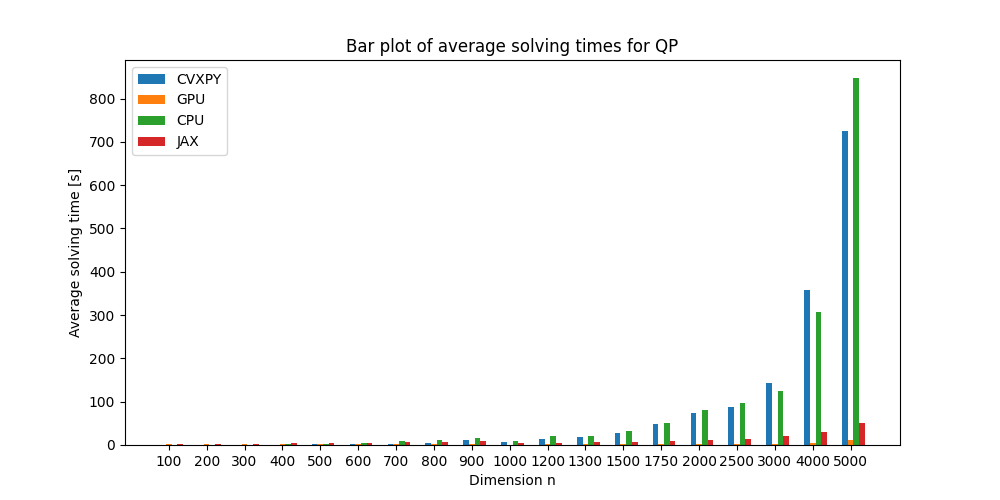
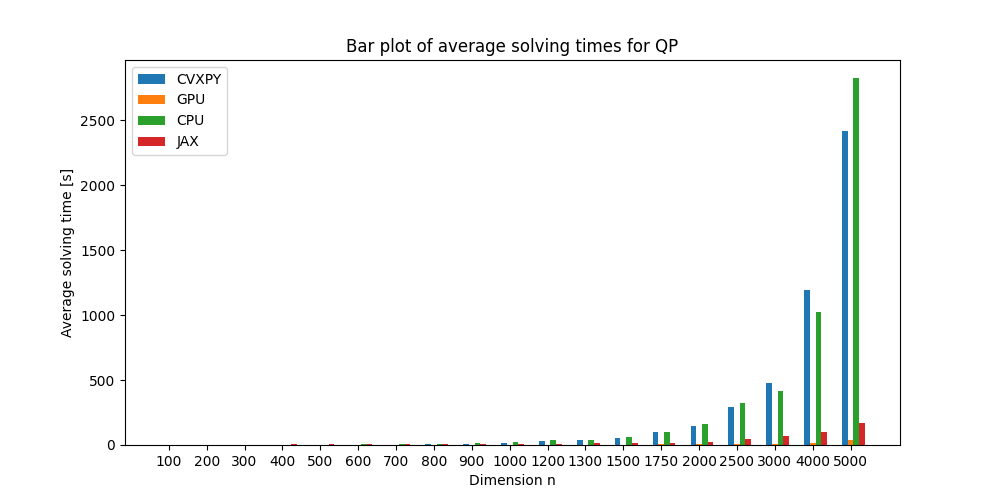
Updated graphs, fixed calculation of mean and std usin nan:s

diff --git a/parseAndPlot.py b/parseAndPlot.py
@@ -17,6 +17,7 @@ def parse_csv(filename, origin):
     # Read the data, skipping the first line
     data_times = pd.read_csv(filenameTimes, skiprows=1)
     data_values = pd.read_csv(filenameValues, skiprows= 0)
+
     # Fix name error
     data_values = data_values.rename(columns = {"socp_gpu_values" : "lasso_gpu_values", 
                                                 "socp_cpu_values" : "lasso_cpu_values"})
@@ -31,21 +32,28 @@ def parse_csv(filename, origin):
     n_values_matrix = np.reshape(n_values_repeated, (-1, N))
     n_values = n_values_matrix[:, 0]
 
-    cvxpy_times = np.reshape(data_times["cvxpy_times"].to_numpy(), (num_tests, N))
+    lasso_jax_times = np.reshape(data_times["lasso_jax_times"].to_numpy(), (num_tests, N))
     lasso_gpu_times = np.reshape(data_times["lasso_gpu_times"].to_numpy(), (num_tests, N))
     lasso_cpu_times = np.reshape(data_times["lasso_cpu_times"].to_numpy(), (num_tests, N))
 
     # Parse data, values
     num_problems = 30 # fixed from testing
     
-    cvxpy_values = np.reshape(data_values["cvxpy_values"].to_numpy(), 
+    lasso_jax_values = np.reshape(data_values["lasso_jax_values"].to_numpy(), 
                               (num_tests, N, num_problems))
     lasso_gpu_values = np.reshape(data_values["lasso_gpu_values"].to_numpy(),
                               (num_tests, N, num_problems))
     lasso_cpu_values = np.reshape(data_values["lasso_cpu_values"].to_numpy(),
                               (num_tests, N, num_problems))
 
-    return N, num_tests, n_values, cvxpy_times, cvxpy_values, lasso_gpu_times, \
+    lasso_jax_times[np.where(lasso_jax_times == 0)] = np.nan
+    lasso_jax_values[np.where(lasso_jax_values == 0)] = np.nan
+    lasso_gpu_times[np.where(lasso_gpu_times == 0)] = np.nan
+    lasso_gpu_values[np.where(lasso_gpu_values == 0)] = np.nan
+    lasso_cpu_times[np.where(lasso_cpu_times == 0)] = np.nan
+    lasso_cpu_values[np.where(lasso_cpu_values == 0)] = np.nan
+
+    return N, num_tests, n_values, lasso_jax_times, lasso_jax_values, lasso_gpu_times, \
             lasso_gpu_values, lasso_cpu_times, lasso_cpu_values
 
   else:  
@@ -75,6 +83,15 @@ def parse_csv(filename, origin):
       jax_times = np.reshape(data["jax_times"].to_numpy(), (num_tests, N))
       jax_values = np.reshape(data["jax_values"].to_numpy(), (num_tests, N))
 
+      cvxpy_times[np.where(cvxpy_times == 0)] = np.nan
+      cvxpy_values[np.where(cvxpy_values == 0)] = np.nan
+      ls_gpu_times[np.where(ls_gpu_times == 0)] = np.nan
+      ls_gpu_values[np.where(ls_gpu_values == 0)] = np.nan
+      ls_cpu_times[np.where(ls_cpu_times == 0)] = np.nan
+      ls_cpu_values[np.where(ls_cpu_values == 0)] = np.nan
+      jax_times[np.where(jax_times == 0)] = np.nan
+      jax_values[np.where(jax_values == 0)] = np.nan
+
       return N, num_tests, n_values, cvxpy_times, cvxpy_values, ls_gpu_times, \
             ls_gpu_values, ls_cpu_times, ls_cpu_values, jax_times, jax_values
 
@@ -89,6 +106,15 @@ def parse_csv(filename, origin):
       jax_times = np.reshape(data["jax_times"].to_numpy(), (num_tests, N))
       jax_values = np.reshape(data["jax_values"].to_numpy(), (num_tests, N))
 
+      cvxpy_times[np.where(cvxpy_times == 0)] = np.nan
+      cvxpy_values[np.where(cvxpy_values == 0)] = np.nan
+      qp_gpu_times[np.where(qp_gpu_times == 0)] = np.nan
+      qp_gpu_values[np.where(qp_gpu_values == 0)] = np.nan
+      qp_cpu_times[np.where(qp_cpu_times == 0)] = np.nan
+      qp_cpu_values[np.where(qp_cpu_values == 0)] = np.nan
+      jax_times[np.where(jax_times == 0)] = np.nan
+      jax_values[np.where(jax_values == 0)] = np.nan
+
       return N, num_tests, n_values, cvxpy_times, cvxpy_values, qp_gpu_times, \
             qp_gpu_values, qp_cpu_times, qp_cpu_values, jax_times, jax_values
       
@@ -100,6 +126,13 @@ def parse_csv(filename, origin):
       socp_gpu_values = np.reshape(data["socp_gpu_values"].to_numpy(), (num_tests, N))
       socp_cpu_times = np.reshape(data["socp_cpu_times"].to_numpy(), (num_tests, N))
       socp_cpu_values = np.reshape(data["socp_cpu_values"].to_numpy(), (num_tests, N))
+
+      cvxpy_times[np.where(cvxpy_times == 0)] = np.nan
+      cvxpy_values[np.where(cvxpy_values == 0)] = np.nan
+      socp_gpu_times[np.where(socp_gpu_times == 0)] = np.nan
+      socp_gpu_values[np.where(socp_gpu_values == 0)] = np.nan
+      socp_cpu_times[np.where(socp_cpu_times == 0)] = np.nan
+      socp_cpu_values[np.where(socp_cpu_values == 0)] = np.nan
 
       return N, num_tests, n_values, cvxpy_times, cvxpy_values, socp_gpu_times, \
             socp_gpu_values, socp_cpu_times, socp_cpu_values
@@ -130,16 +163,16 @@ def get_result(filename, origin):
     print(f"For JAX, the average relative error is {jax_av_err}")
 
     # Calculate time averages
-    cvxpy_time_average = cvxpy_times.sum(axis = 1) / N
-    gpu_time_average = gpu_times.sum(axis = 1) / N
-    cpu_time_average = cpu_times.sum(axis = 1) / N
-    jax_time_average = jax_times.sum(axis = 1) / N
+    cvxpy_time_average = np.nanmean(cvxpy_times, axis = 1)
+    gpu_time_average = np.nanmean(gpu_times, axis = 1)
+    cpu_time_average = np.nanmean(cpu_times, axis = 1)
+    jax_time_average = np.nanmean(jax_times, axis = 1)
 
     # Calculate standard deviations
-    cvxpy_std = np.std(cvxpy_times, axis = 1)
-    gpu_std = np.std(gpu_times, axis = 1)
-    cpu_std = np.std(cpu_times, axis = 1)
-    jax_std = np.std(jax_times, axis = 1)
+    cvxpy_std = np.nanstd(cvxpy_times, axis = 1)
+    gpu_std = np.nanstd(gpu_times, axis = 1)
+    cpu_std = np.nanstd(cpu_times, axis = 1)
+    jax_std = np.nanstd(jax_times, axis = 1)
 
     ### Plot results
     x_ticks = np.arange(len(n_values))
@@ -256,19 +289,15 @@ def get_result(filename, origin):
     print(f"For {origin}-solver using GPU, the average relative error is {gpu_av_err}")
     print(f"For {origin}-solver using CPU, the average relative error is {cpu_av_err}")
 
-    # remove rows having all zeroes
-    truth_times_cutoff = truth_times[~np.all(truth_times == 0, axis=1)]
-    nonzero_rows = truth_times_cutoff.shape[0]
-
-    # Calculate averages
-    truth_time_average = truth_times_cutoff.sum(axis = 1) / N
-    gpu_time_average = gpu_times.sum(axis = 1) / N
-    cpu_time_average = cpu_times.sum(axis = 1) / N
+    # Calculate time averages
+    truth_time_average = np.nanmean(truth_times, axis = 1)
+    gpu_time_average = np.nanmean(gpu_times, axis = 1)
+    cpu_time_average = np.nanmean(cpu_times, axis = 1)
 
     # Calculate standard deviations
-    truth_std = np.std(truth_times_cutoff, axis = 1)
-    gpu_std = np.std(gpu_times, axis = 1)
-    cpu_std = np.std(cpu_times, axis = 1)
+    truth_std = np.nanstd(truth_times, axis = 1)
+    gpu_std = np.nanstd(gpu_times, axis = 1)
+    cpu_std = np.nanstd(cpu_times, axis = 1)
 
     ### Plot results
     x_ticks = np.arange(len(n_values))
@@ -276,9 +305,7 @@ def get_result(filename, origin):
     plt.figure(figsize=(10, 5))
     plt.title("Graph of average solving times for " + origin + " with errorbars")
     if origin == "LASSO":
-      plt.errorbar(x_ticks[:nonzero_rows], truth_time_average, yerr = truth_std, label = "JAX")
-    else:
-      plt.errorbar(x_ticks[:nonzero_rows], truth_time_average, yerr = truth_std, label = "CVXPY")
+      plt.errorbar(x_ticks, truth_time_average, yerr = truth_std, label = "JAX")
     plt.errorbar(x_ticks, gpu_time_average, yerr = gpu_std, label = origin + "-solver GPU")
     plt.errorbar(x_ticks, cpu_time_average, yerr = cpu_std, label = origin + "-solver CPU")
     plt.xticks(ticks = x_ticks, labels = x_labels)
@@ -292,8 +319,6 @@ def get_result(filename, origin):
     plt.title("Graph of average solving times for " + origin)
     if origin == "LASSO":
       plt.plot(truth_time_average, label = "JAX")
-    else:
-      plt.plot(truth_time_average, label = "CVXPY")
     plt.plot(gpu_time_average, label = origin + "-solver GPU")
     plt.plot(cpu_time_average, label = origin + "-solver CPU")
     plt.xticks(ticks = x_ticks, labels = x_labels)
@@ -306,9 +331,7 @@ def get_result(filename, origin):
     plt.figure(figsize=(10, 5))
     plt.title("Graph of average solving times for " + origin + " on a log-scale with errorbars")
     if origin == "LASSO":
-      plt.errorbar(x_ticks[:nonzero_rows], truth_time_average, yerr = truth_std, label = "JAX")
-    else:
-      plt.errorbar(x_ticks[:nonzero_rows], truth_time_average, yerr = truth_std, label = "CVXPY")
+      plt.errorbar(x_ticks, truth_time_average, yerr = truth_std, label = "JAX")
     plt.errorbar(x_ticks, gpu_time_average, yerr = gpu_std, label = origin + "-solver GPU")
     plt.errorbar(x_ticks, cpu_time_average, yerr = cpu_std, label = origin + "-solver CPU")
     plt.xticks(ticks = x_ticks, labels = x_labels)
@@ -323,8 +346,6 @@ def get_result(filename, origin):
     plt.title("Graph of average solving times for " + origin + " on a log-scale")
     if origin == "LASSO":
       plt.plot(truth_time_average, label = "JAX")
-    else:
-      plt.plot(truth_time_average, label = "CVXPY")
     plt.plot(gpu_time_average, label = origin + "-solver GPU")
     plt.plot(cpu_time_average, label = origin + "-solver CPU")
     plt.xticks(ticks = x_ticks, labels = x_labels)
@@ -334,9 +355,6 @@ def get_result(filename, origin):
     plt.legend()
     plt.savefig("testing/plots/" + origin + "averageLogarithmicLinePlot.png")
     plt.clf()
-
-    # Redefine cvxpy_time_average
-    truth_time_average = truth_times.sum(axis = 1) / N
 
     # Bar plot
     dims = n_values
@@ -348,7 +366,6 @@ def get_result(filename, origin):
       }
     else:
       timeResults = {
-          'CVXPY': truth_time_average,
           'GPU': gpu_time_average,
           'CPU': cpu_time_average,
       }
